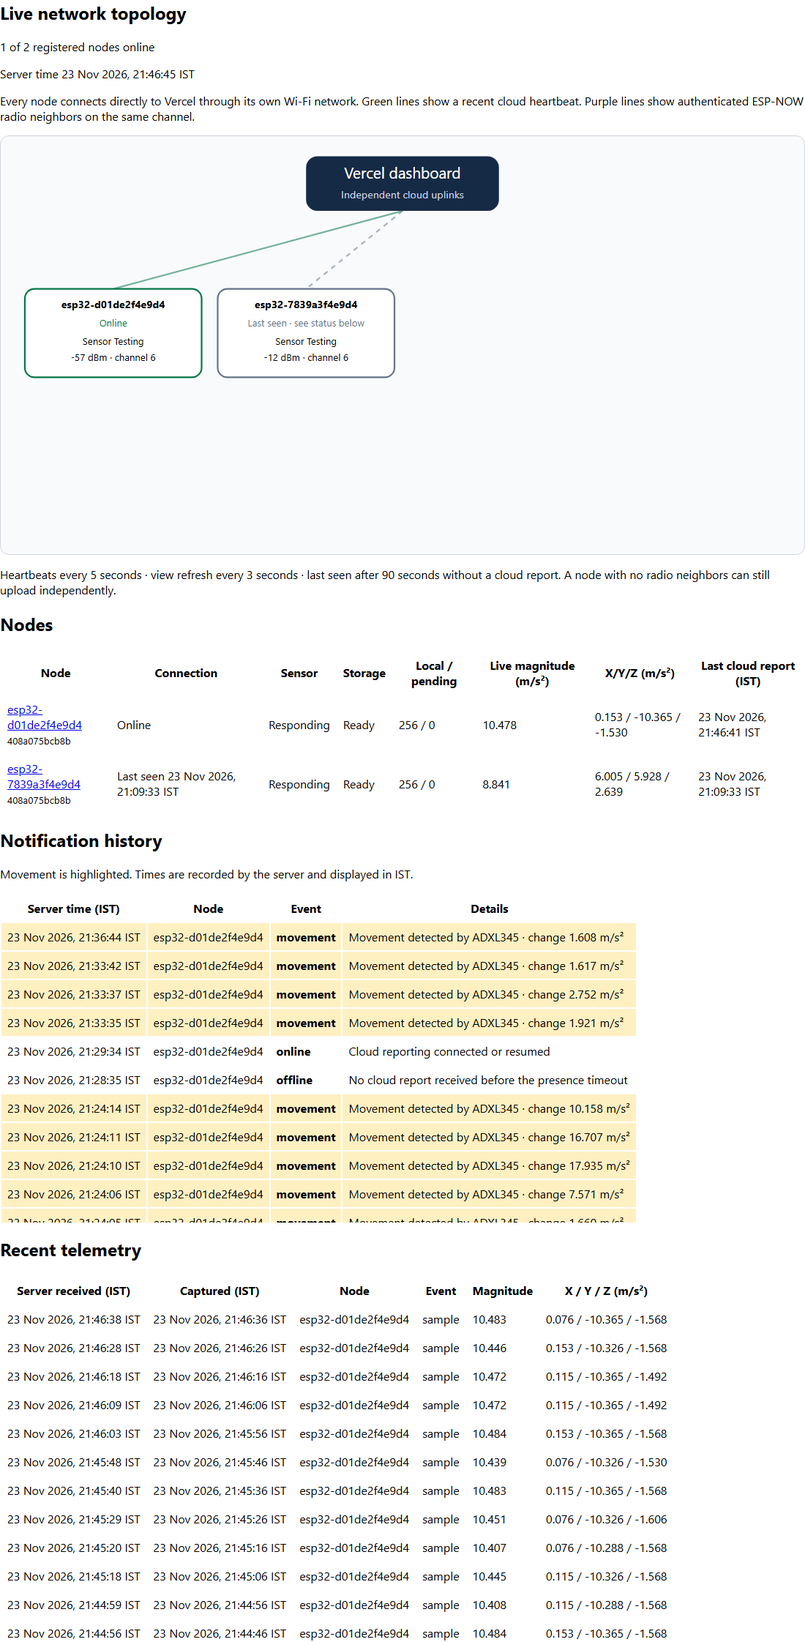
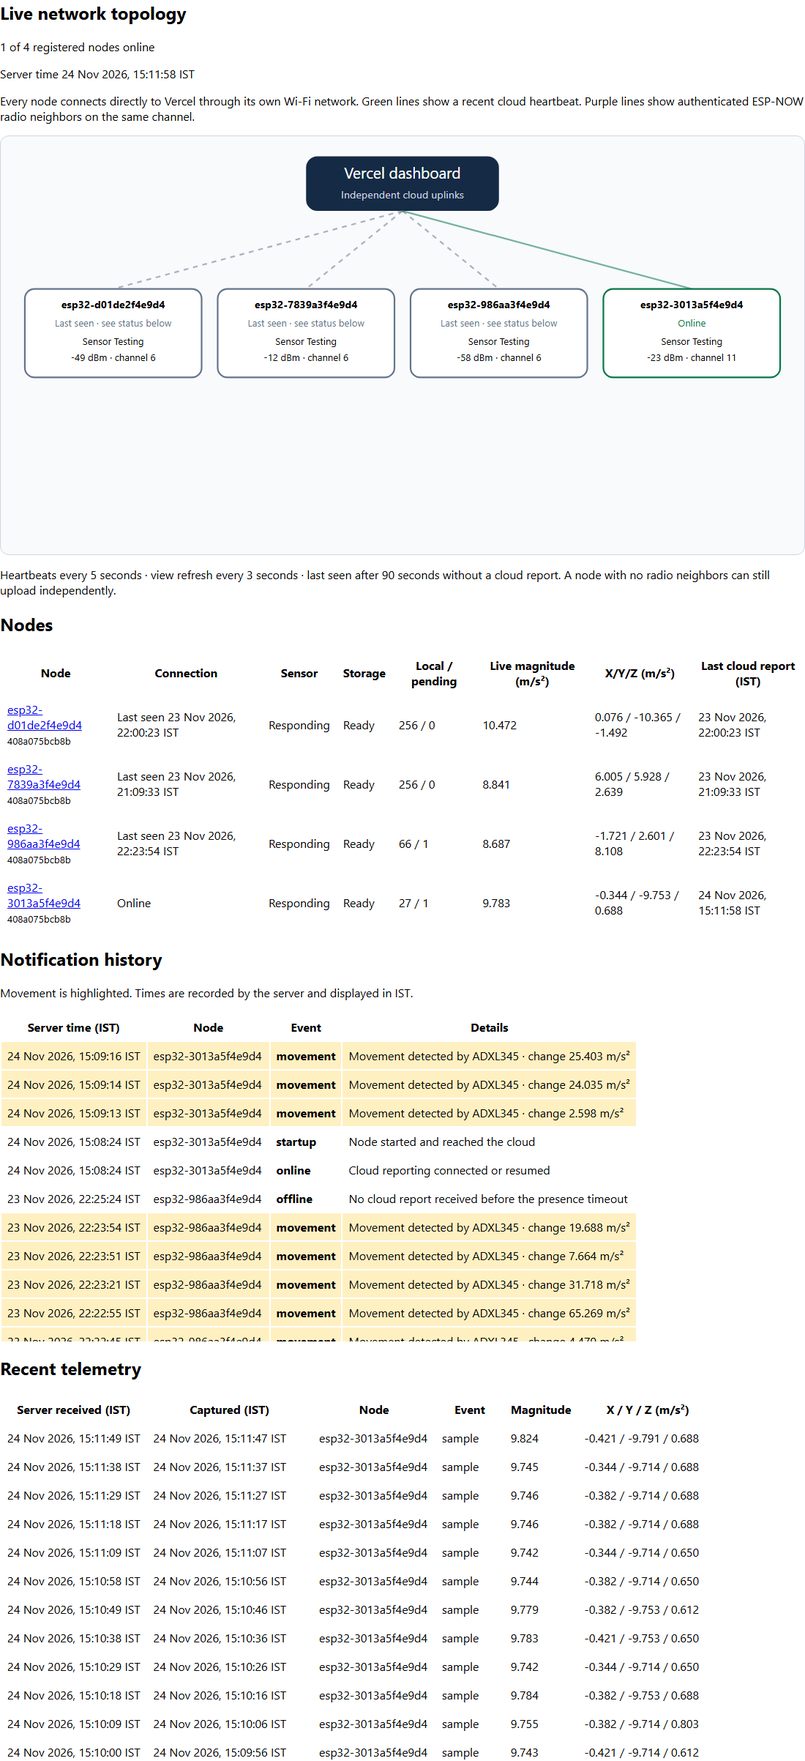
Document third and fourth node commissioning and USB recovery

diff --git a/README.md b/README.md
@@ -4,14 +4,13 @@ An ESP32 connects to Wi-Fi, records telemetry locally, uploads it over HTTPS, an
 
 The hardware target is a **classic ESP32 DevKit with 4 MB flash** and an ADXL345 connected over I²C. X/Y/Z acceleration is reported in m/s², and the summary value is acceleration magnitude multiplied by sensitivity. GPIO 4 remains the capacitive setup input.
 
-Both registered boards have been updated to release `408a075`, retaining their separate identities and settings. Online/Last-seen reflects each board's actual reporting. Captive-portal saving, 30 recent local records, and a complete 256-record download were verified on `esp32-7839a3f4e9d4`. See the [verification record](docs/VERIFICATION.md) for release status and remaining hardware acceptance checks.
+Four registered boards have been commissioned on release `408a075`, retaining separate identities and credentials. Online/Last-seen reflects each board's actual reporting. Captive-portal saving, 30 recent local records, and a complete 256-record download were verified on `esp32-7839a3f4e9d4`. See the [verification record](docs/VERIFICATION.md) for dated checkpoints and remaining hardware acceptance checks.
 
 ## Connected node and wiring
 
 | Item | Value |
 | --- | --- |
-| Current COM5 Node ID | `esp32-d01de2f4e9d4` (November 18 board, returned November 23) |
-| Other configured Node ID | `esp32-7839a3f4e9d4` (separate identity and history retained) |
+| Current COM5 Node ID | `esp32-3013a5f4e9d4` (commissioned November 24) |
 | USB port | COM5 |
 | Chip | ESP32-D0WD-V3 revision 3.1 |
 | ADXL345 SDA | GPIO 21 |
@@ -23,7 +22,14 @@ Both registered boards have been updated to release `408a075`, retaining their s
 | Commissioning sample interval | 10 seconds |
 | Sensor mode | Full-resolution ±16 g, 100 Hz ODR |
 
-See the [current board record and COM5 procedure](docs/NODE-COM5.md), [other board record](docs/NODE-7839A3.md), and [operating manual](docs/OPERATING_MANUAL.md) for USB upload commands, Arduino IDE export, settings, diagnostics, and sensor-calibration limits. Passwords and node secrets remain private. Each ESP32's SSID and password can be changed in its captive portal. Identify boards by Node ID/MAC; COM5 can be reused by different boards.
+| Node ID | Station MAC | Commissioning record |
+| --- | --- | --- |
+| `esp32-d01de2f4e9d4` | `d4:e9:f4:e2:1d:d0` | [Original board and November 23 return](docs/NODE-COM5.md) |
+| `esp32-7839a3f4e9d4` | `d4:e9:f4:a3:39:78` | [November 23 board](docs/NODE-7839A3.md) |
+| `esp32-986aa3f4e9d4` | `d4:e9:f4:a3:6a:98` | [Third board, November 23](docs/NODE-986AA3.md) |
+| `esp32-3013a5f4e9d4` | `d4:e9:f4:a5:13:30` | [Fourth board, November 24](docs/NODE-3013A5.md) |
+
+See the node records and [operating manual](docs/OPERATING_MANUAL.md) for USB upload commands, Arduino IDE export, settings, diagnostics, and sensor-calibration limits. Passwords and node secrets remain private. Each ESP32's SSID and password can be changed in its captive portal. Identify boards by Node ID/MAC; COM5 can be reused by different boards.
 
 The live dashboard shows each node's direct cloud uplink and authenticated ESP-NOW neighbor sightings. Every node independently uploads through its configured Wi-Fi network. A dedicated task reports every five seconds while upload and OTA work run separately. The graph refreshes every three seconds and shows Online or Last seen in IST from accepted server reports. See [topology](docs/TOPOLOGY.md).
 
@@ -32,7 +38,8 @@ The live dashboard shows each node's direct cloud uplink and authenticated ESP-N
 | Dashboard | https://esp32-fleet-iot-project3.vercel.app/ |
 | Ingest API | `POST https://esp32-fleet-iot-project3.vercel.app/v1/telemetry` |
 | Repository | https://github.com/rohitlaikhuman8-ui/IOTProject |
-| OTA manifest | https://github.com/rohitlaikhuman8-ui/IOTProject/releases/download/firmware-latest/manifest.json |
+| Configured node OTA manifest | [Vercel firmware manifest](https://esp32-fleet-iot-project3.vercel.app/v1/firmware) |
+| Upstream release channel | [GitHub stable manifest](https://github.com/rohitlaikhuman8-ui/IOTProject/releases/download/firmware-latest/manifest.json) |
 | Local setup panel | `http://192.168.4.1/` while connected to the device's setup AP |
 
 ## Guides
@@ -42,7 +49,9 @@ The live dashboard shows each node's direct cloud uplink and authenticated ESP-N
 | [Complete operating manual](docs/OPERATING_MANUAL.md) | Adding/removing nodes, changing every setting, credentials, recovery, troubleshooting, safety and maintenance |
 | [Hardware and first flash](docs/HARDWARE.md) | Board, wiring, tool installation, USB flashing, touch calibration |
 | [COM5 node record](docs/NODE-COM5.md) | Actual chip, Node ID, ADXL345 wiring, upload, private provisioning |
-| [November 23 node](docs/NODE-7839A3.md) | Current board identity, backup, independent registration and commissioning |
+| [November 23 node](docs/NODE-7839A3.md) | Board identity, backup, independent registration and commissioning |
+| [Third node](docs/NODE-986AA3.md) | Separate credential, first-time storage, November 23 checks |
+| [Fourth node](docs/NODE-3013A5.md) | November 24 commissioning, segmented USB recovery and movement test |
 | [Live topology](docs/TOPOLOGY.md) | Independent cloud uplinks, heartbeats, authenticated radio neighbors |
 | [Deployment](docs/DEPLOYMENT.md) | Atlas, Vercel, environment variables, local development |
 | [Operating procedures](docs/OPERATIONS.md) | Commissioning, provisioning, dashboard, exports, credential rotation |
@@ -220,3 +229,5 @@ The ADXL345 firmware has been built and flashed on the connected COM5 board. Sen
 On November 23, 2026, node `esp32-7839a3f4e9d4` installed release `408a075` remotely through Vercel, verified and rebooted successfully, retained 256 records, and resumed reporting with zero backlog. The 1,224,352-byte binary transfer took 41 seconds. Its Wi-Fi and OTA settings remained saved; setup AP was inactive. The dashboard confirmed the new version, online status, IST telemetry and movement notifications.
 
 Later that evening, `esp32-d01de2f4e9d4` returned on COM5 and received the same checksum-verified release over USB. All 256 existing records migrated without formatting and passed a read-only integrity check with zero invalid records. Its original Node ID/secret were retained, and its saved Vercel OTA channel was checked successfully. The operator's tilt produced five verified cloud movement notifications. Its historical backlog finished uploading, reaching zero pending records by 21:45:30 IST.
+
+Third node `esp32-986aa3f4e9d4` passed provisioning, reboot persistence, sensor/storage, movement and current-version OTA checks on November 23. Fourth node `esp32-3013a5f4e9d4` passed the same commissioning checks on November 24 after recovery from two interrupted USB writes. Both received unique secrets, with earlier registrations preserved. Their checkpoints showed zero pending uploads; this is not a guarantee that an unplugged node's last report is a live reading or always has an empty queue.

diff --git a/docs/VERIFICATION.md b/docs/VERIFICATION.md
@@ -1,5 +1,9 @@
 # Verification record
 
+## Latest commissioning checkpoint — November 24, 2026
+
+Four nodes are registered with separate secrets on release `408a075`. The fourth, `esp32-3013a5f4e9d4`, was verified online after its November 24 installation: saved settings survived reboot, ADXL345 and storage were healthy, record integrity passed, time was synchronized, the operator's movement was persisted in notification history, and pending uploads were zero. The other three boards were not connected during this check and retained Last-seen histories. See [third-node](NODE-986AA3.md) and [fourth-node](NODE-3013A5.md) records; the older checkpoints below remain historical evidence.
+
 ## Latest verified state — November 23, 2026
 
 At approximately 21:00 IST, COM5 node `esp32-7839a3f4e9d4` was online on release `408a075bcb8b8eb4366a380ffc283637349bcc57`, installed remotely through the Vercel firmware origin. Pending boot was confirmed, sensor/storage were healthy, all 256 retained records were present, the upload queue was empty, IST matched host time, and setup AP was inactive. The authenticated dashboard showed fresh telemetry and movement notifications. The November 18 node retained its historical last-seen state. Detailed acceptance and earlier failures follow below.
@@ -192,3 +196,23 @@ Atlas read-only queries confirmed five movement events captured at 21:23:44, 21:
 Direct Chromium navigation timed out at 30 and 60 seconds, while direct HTTP returned 200. Routing browser requests through Playwright's request client completed normal password login and a real dashboard API read. The 21:39:24 IST snapshot showed d01de2 online on `408a075`, sensor/storage healthy, synchronized time, live readings, matching movement notifications and 111 pending records. The unplugged 7839a3 node retained Last seen at 21:09:33 IST. Transport retries and new sampling continued; no records were deleted to hide the backlog. The documentation capture script now supports that optional HTTP transport and waits for DOM/UI readiness instead of global network idleness.
 
 The same node's pending count decreased to nine at 21:44:05 and zero at 21:45:30 IST, confirmed by a direct Atlas node-state query. No pending data was discarded and the sampling interval remained ten seconds. Final screenshots were refreshed after queue recovery. This verifies this observed recovery, not a sustained-throughput guarantee for every network or sampling rate.
+
+## Third node commissioned November 23
+
+New MAC `d4:e9:f4:a3:6a:98` produced Node ID `esp32-986aa3f4e9d4`. Its original application/settings area was backed up privately, with retries on two read sections, and the original application checksum/hash validated. Both filesystem superblock pages were blank. A third unique node secret was added without replacing the existing entries, and Vercel redeployment `dpl_5jZ1VtFCbTuBrRCKqjCCZobpTdTf` reached Ready. The same checksum-verified public `408a075` binary and a one-time initial LittleFS image were flashed successfully; BOOT was not needed.
+
+Persistent provisioning was acknowledged at 22:14:44 IST and followed by reboot, sensor detection at 0x53/0xE5, retained local records and authenticated HTTP 200 reporting. Serial status at 22:15:54 showed synchronized time, healthy sensor/storage, setup inactive and zero backlog. The scheduled OTA check at 22:15:56 reported matching advertised/running versions. At 22:17:24 the storage check validated all 17 then-retained records with zero errors in 607 ms.
+
+The operator's physical tilt generated fresh database-backed movement alerts. Example `398d05f9e88ba442c6b896439b5db197` was captured at 22:19:44 and received at 22:19:46.023 IST, delta 21.13259 m/s². The authenticated dashboard API at 22:20:12 showed this node online on `408a075`, mode running, 39 records, zero pending uploads and both older registrations preserved. See [the complete node record](NODE-986AA3.md).
+
+During the November 24 follow-up, the dashboard showed the third node's Last seen at November 23, 22:23:54 IST, with 66 records and one pending in its last report. COM5 enumerated but did not answer fleet status. A normal reset produced a different boot image, and read-only MAC identification revealed `d4:e9:f4:a5:13:30`, not the third board. The operator explicitly authorized configuring this newly connected fourth board. Historical successful checks above are not presented as current online status.
+
+## Fourth node commissioned November 24
+
+The new board's hardware ID is `esp32-3013a5f4e9d4`. Its compatible partition table and two blank filesystem superblock pages were checked before writing. The original boot/settings/application region was archived in 1,376,256 bytes; one read section required a retry, every section's transcript matched the MAC, and the original application checksum/hash validated. A fourth unique secret was added while retaining the other three. Vercel redeployment `dpl_C31oWXRvr5vNqacNBUtfTG1bVpHm` reached Ready.
+
+Two long USB writes stopped near 71% and 89% with “chip stopped responding.” Recovery wrote five shorter application sections successfully, then full-image verification against the published 1,224,352-byte binary reported a matching digest. The matched bootloader/boot-selection data were verified and the previously blank filesystem initialized once. NVS and the existing partition table were retained. No BOOT intervention was required.
+
+Permanent configuration was acknowledged at 15:08:15 IST and rebooted into the exact release, detecting ADXL345 0x53/0xE5. The first local record survived that reboot. Serial at 15:08:32 showed healthy sensor/storage, setup inactive, synchronized time and zero backlog. The 15:08:43 integrity check validated four records, zero invalid, in 93 ms. The operator tilted the device; movement event `9ebcd284363cd21db1a8a3600502c93b` was captured at 15:09:14 and received in notification history at 15:09:16.255 IST, delta 25.40308 m/s².
+
+The authenticated production dashboard API at 15:09:44 showed all four IDs, this node online in running mode, 13 local records, zero pending uploads, healthy sensor/storage and synchronized time. Older identities/history were preserved. The scheduled Vercel OTA check at 15:09:57 matched the running version without reinstalling it. These are USB commissioning and current-version channel checks, not an additional remote-image or deliberate rollback test.

diff --git a/docs/NODE-3013A5.md b/docs/NODE-3013A5.md
@@ -1,0 +1,46 @@
+# Node esp32-3013a5f4e9d4
+
+This fourth board was identified on November 24, 2026, after COM5 had been reused. The operator explicitly requested commissioning it as the next node. Earlier results for other boards do not apply to this hardware automatically.
+
+| Item | Value |
+| --- | --- |
+| Hardware Node ID | `esp32-3013a5f4e9d4` |
+| Station MAC | `d4:e9:f4:a5:13:30` |
+| Chip | ESP32-D0WD-V3 revision 3.1 |
+| USB port | COM5 during commissioning |
+| Verified installed release | `408a075bcb8b8eb4366a380ffc283637349bcc57` |
+| Sensor wiring | ADXL345 SDA GPIO21, SCL GPIO22, VCC 3V3, common GND |
+| Target network | Sensor Testing |
+| Sampling / sensitivity / movement threshold | 10 seconds / 1 / 1.5 m/s² |
+| Setup touch input | GPIO4, four-second hold, threshold 30 |
+| Setup SSID | `ESP32-Setup-3013a5f4e9d4` |
+| OTA manifest | `https://esp32-fleet-iot-project3.vercel.app/v1/firmware` |
+
+Passwords and node/group credentials remain private and outside Git. This node receives an individual API secret; the three existing registrations and secrets were retained.
+
+## Preflight and cloud registration
+
+A normal reset produced a non-fleet boot image and no fleet status response. Read-only bootloader identification established the MAC above before any firmware write. The existing partition table matched app0 at `0x10000`, app1 at `0x150000`, both 1,310,720 bytes, and the 1,441,792-byte filesystem at `0x290000`. Both filesystem superblock pages were blank.
+
[1 lines of base64/hex data omitted]
+
[1 lines of base64/hex data omitted]
+
+Installation uses the matched bootloader at `0x1000`, app0 boot-selection data at `0xe000`, public application at `0x10000`, and a first-time LittleFS image at `0x290000`. The existing partition table and NVS are retained. Never repeat filesystem initialization for routine firmware updates.
+
+## Acceptance results
+
+Installation, provisioning, sensor/storage, cloud reporting and movement checks completed as recorded below. See the [operating manual](OPERATING_MANUAL.md) for procedures and [verification record](VERIFICATION.md) for fleet checkpoints.
+
+Two long application writes stopped responding at approximately 71% and 89%. Recovery used five independently verified sections at `0x10000`, `0x50000`, `0x90000`, `0xd0000` and `0x110000`. All five completed on their first section attempt. A subsequent full-image `verify_flash` compared all 1,224,352 bytes against the published binary and reported a matching digest. Only then was the previously blank filesystem initialized and the board restarted. BOOT intervention was not required.
+
+- At 15:08:15 IST the board acknowledged permanent configuration and rebooted.
+- At 15:08:16 it identified the expected Node ID/release and ADXL345 at `0x53`, DEVID `0xE5`, using GPIO21/22, full-resolution ±16 g at 100 Hz.
+- The first retained record loaded after reboot. Telemetry and heartbeat returned HTTP 200 under the fourth node's own secret.
+- Serial status at 15:08:32 reported saved Wi-Fi, healthy sensor/storage, three local records, zero pending uploads, synchronized IST, setup AP inactive and LED output enabled.
+- At 15:08:43 the integrity check validated four records, zero invalid, in 93 ms.
+- The operator tilted the device. Event `9ebcd284363cd21db1a8a3600502c93b` was captured at 15:09:14 and received in notification history at 15:09:16.255 IST, with movement delta 25.40308 m/s². Two other fresh movement notifications were also present.
+- The authenticated dashboard API at 15:09:44 showed all four registrations, this node in running mode with 13 local records and zero pending uploads, healthy sensor/storage and synchronized time. The three disconnected boards retained their own Last-seen histories.
+- The scheduled Vercel OTA check at 15:09:57 advertised exactly the running `408a075` release, without an unnecessary installation.
+
+Commissioning is complete for these checks. Six-orientation calibration, sustained-load tests, controlled power cuts, failed-image rollback and simultaneous radio-neighbor tests remain separate production acceptance work. This node was installed over USB; the current-version OTA check is not a claim that a new remote image was installed on this board.

diff --git a/docs/NODE-986AA3.md b/docs/NODE-986AA3.md
@@ -1,0 +1,46 @@
+# Node esp32-986aa3f4e9d4
+
+This third registered board was commissioned on November 23, 2026. COM5 was later reused by another physical board; identify it by Node ID and MAC, not the port number.
+
+| Item | Verified value |
+| --- | --- |
+| Node ID | `esp32-986aa3f4e9d4` |
+| Station MAC | `d4:e9:f4:a3:6a:98` |
+| Chip | ESP32-D0WD-V3 revision 3.1 |
+| USB port during commissioning | COM5 |
+| Firmware | `408a075bcb8b8eb4366a380ffc283637349bcc57` |
+| Sensor | ADXL345, address `0x53`, DEVID `0xE5` |
+| Wiring | SDA GPIO21, SCL GPIO22, VCC 3V3, common GND |
+| Sensor mode | Full resolution, ±16 g, 100 Hz |
+| Saved SSID | Sensor Testing |
+| Sample interval / sensitivity | 10 seconds / 1 |
+| Movement threshold | 1.5 m/s² vector change |
+| Touch input / threshold | GPIO4, threshold 30, four-second hold |
+| Status output | GPIO2 |
+| Setup SSID | `ESP32-Setup-986aa3f4e9d4` |
+| API origin / endpoint | `https://esp32-fleet-iot-project3.vercel.app` / `/v1/telemetry` |
+| OTA manifest | `https://esp32-fleet-iot-project3.vercel.app/v1/firmware` |
+
+Wi-Fi/AP passwords, the individual API secret and discovery key remain private. Its API secret is distinct from the other nodes. SSID/password and other settings remain editable in its captive portal; see the [operating manual](OPERATING_MANUAL.md).
+
+## Backup and installation
+
[1 lines of base64/hex data omitted]
+
+The partition table matched two 1,310,720-byte application slots and the filesystem at `0x290000`. Both filesystem superblock pages were blank. A unique API credential was added to Production `NODE_SECRETS_JSON`, retaining the two existing entries. Redeployment `dpl_5jZ1VtFCbTuBrRCKqjCCZobpTdTf` reached Ready.
+
[1 lines of base64/hex data omitted]
+
+## Recorded acceptance checks
+
+- At 22:14:44 IST the node acknowledged permanent configuration and rebooted. It identified the correct sensor and loaded the existing first local record, demonstrating retention across the configuration reboot.
+- Telemetry and heartbeat returned HTTP 200 under its own identity. Settings restored automatically; setup AP was inactive.
+- At 22:15:54 serial reported the exact release, eight retained records, zero pending uploads, healthy sensor/storage, synchronized IST and setup inactive.
+- At 22:15:56 the scheduled OTA check advertised the same version already running. No unnecessary image installation occurred.
+- At 22:17:24 the read-only integrity check validated 17 records, zero invalid, in 607 ms.
+- The operator tilted the device. Event `398d05f9e88ba442c6b896439b5db197`, captured at 22:19:44 IST, appeared in notification history at 22:19:46.023 IST with movement delta 21.13259 m/s². Other fresh movement alerts were also persisted.
+- The authenticated dashboard API at 22:20:12 IST showed mode running, healthy sensor/storage, synchronized time, 39 retained records and zero pending uploads. All three registered identities and their separate histories were present.
+
+On November 24 the dashboard showed Last seen at November 23, 22:23:54 IST, with last-reported values of 66 local records and one pending record. These are historical values, not a new live health check. The connected COM5 board was then identified as a different MAC, and the operator explicitly requested commissioning it too. No reflash or settings change was made to this third board during that follow-up.
+
+Calibration, sustained-throughput tests, controlled power cuts, failed-image rollback and simultaneous multi-node radio testing remain separate acceptance work. See [verification](VERIFICATION.md) and [firmware behavior](FIRMWARE.md).

diff --git a/docs/OPERATING_MANUAL.md b/docs/OPERATING_MANUAL.md
@@ -271,6 +271,8 @@ On a new board only, initialize the filesystem:
 
 Close Serial Monitor before uploading. If the uploader stays at Connecting, hold BOOT until writing begins, then release it. A normal update keeps the partition layout unchanged and uploads the application.
 
+If long writes repeatedly stop with “chip stopped responding,” first check the cable, direct USB port and serial speed. The November 24 board recovered using shorter, sector-aligned application sections with separate verification, followed by full-image `verify_flash` against the original published binary before normal boot. This is an advanced recovery procedure: confirm the hardware MAC, partition offsets, whole-image SHA-256 and every section's destination first. Section success alone does not prove the complete application is correct. Preserve NVS and existing logs; initialize a filesystem only when its blank/unformatted state has been established. If short sections also fail, stop and correct the USB/power connection rather than repeatedly erasing the device.
+
 For Arduino IDE export, run `powershell -ExecutionPolicy Bypass -File scripts/export-arduino.ps1`. Use the documented Espressif core 2.0.17, ArduinoJson 7.3.1, ESP32 Dev Module and COM5. The filesystem still needs explicit initial provisioning.
 
 ## 20. OTA procedure and recovery

diff --git a/docs/DEPLOYMENT.md b/docs/DEPLOYMENT.md
@@ -12,6 +12,8 @@ During COM5 commissioning, linking the repository returned a Vercel error requir
 
 The public `/v1/firmware` GET route relays only this repository's published firmware channel. It requires no new secrets or Render service. GitHub Actions remains the publisher. The route validates manifest origin/schema/size and checks binary size/SHA-256 before serving an immutable reference. Keep production platform access available to the ESP32; dashboard sessions and authenticated node ingestion still apply to their existing routes. Firmware transfers count toward Vercel usage. See [firmware operations](FIRMWARE.md#vercel-firmware-origin) for behavior and local checks.
 
+The third node's credential was activated by redeployment `dpl_5jZ1VtFCbTuBrRCKqjCCZobpTdTf` on November 23. The fourth was activated by `dpl_C31oWXRvr5vNqacNBUtfTG1bVpHm` on November 24. Both reached Ready using the existing tested application source and updated Production environment. `NODE_SECRETS_JSON` now has four separate node entries; earlier entries were retained. Secrets are not documented or committed. The firmware channel remains release `408a075`; registration/documentation changes alone do not publish new firmware.
+
 ## Environment variables
 
 | Variable | Purpose |

diff --git a/docs/images/README.md b/docs/images/README.md
@@ -2,10 +2,10 @@
 
 | File | Source |
 | --- | --- |
-| `dashboard-login.png` | Live deployed application sign-in on November 23, 2026 |
-| `dashboard-nodes.png` | Live authenticated dashboard after the returning d01de2 board's November 23 upgrade |
-| `dashboard-topology.png` | Live topology with d01de2 online and the unplugged 7839a3 board last seen |
-| `dashboard-ist-history.png` | Live IST telemetry and movement history with the returning board on release 408a075 |
+| `dashboard-login.png` | Live deployed application sign-in on November 24, 2026 |
+| `dashboard-nodes.png` | Live authenticated dashboard after fourth-node commissioning on November 24 |
+| `dashboard-topology.png` | Four registered nodes: 3013a5 online and the three disconnected boards last seen |
+| `dashboard-ist-history.png` | Live IST telemetry and movement history from the fourth node on release 408a075 |
 | `dashboard-offline.png` | Physical node offline after its cloud uplink was paused in setup mode |
 | `provisioning-reference.png` | Actual `PortalPage` HTML extracted from firmware, rendered with sample settings |
 | `portal-live.png` | Real November 23 node, live settings/status/recent logs, password fields left blank |
